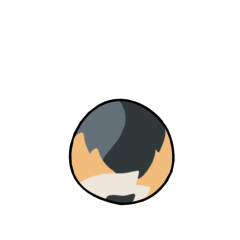
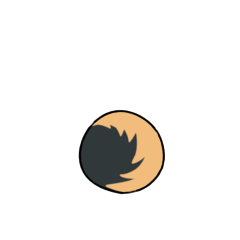
Sprite Cleanup + Spin Jump Transitions

Changed region(s): [[0.2625, 0.4083, 0.7292, 0.875]]

diff --git a/WhisperTheWolfVengeance/Scripts/WhisperStateManager.cs b/WhisperTheWolfVengeance/Scripts/WhisperStateManager.cs
@@ -10,10 +10,13 @@ public partial class WhisperStateManager : AnimationPlayer
 	private AnimatedSprite2D tailSprite;
 	private AnimationPlayer chargeLightAnimations;
 	private AudioStreamPlayer dropRingsSFX;
-	private System.Object[] details;
+	private Timer timer;
+	private object[] details;
 	private Vector2 chargeOffset;
 	private bool facingLeft;
 	private bool facingChanged;
+	private bool shotFiredOrCharged;
+	private bool extendSpinJump;
 	private int currentWhisp;
 	private Color cyan; 
 	private Color green;
@@ -35,9 +38,11 @@ public partial class WhisperStateManager : AnimationPlayer
 		tailSprite = GetNode<AnimatedSprite2D>("../MainSprite/TailSprite");
 		tailSprite.Play("default");
 		chargeLightAnimations = GetNode<AnimationPlayer>("ChargeLightAnimations");
+		timer = GetNode<Timer>("../Timer");
 
 		dropRingsSFX = GetNode<AudioStreamPlayer>("../SFXDropRings");
         dropRingsSFX.VolumeDb = _SettingsManager.sfxVolume;
+		
 
 		cyan = new Color(0.42f, 0.76f, 0.74f);      //#6dc3be
 		green = new Color(0.4f, 0.8f, 0.38f);       //#65cd62
@@ -50,12 +55,17 @@ public partial class WhisperStateManager : AnimationPlayer
 		chargeOffset = new Vector2(0, 0);
 		facingLeft = false;
 		facingChanged = false;
+		shotFiredOrCharged = false;
+		extendSpinJump = false;
 	}
 
 	public override void _Process(double delta) {
 		details = whisperController.GetWhisperDetails();
 		SetSpriteDirection(whisperController.GetIsFacingLeft());
 		state = mainSprite.Animation;
+		shotFiredOrCharged = ((Boolean)details[2]) == true || ((double)details[4] >= 0.1);
+		SetExtendSpinJump();
+
 		if(whisperController.hurtCooldown <= 0) {
 			SetAnimationState();
 			SetChargeLight();
@@ -66,7 +76,7 @@ public partial class WhisperStateManager : AnimationPlayer
 			}
 			this.Play("WhisperHurt");
 		}
-		CheckWhispsSwitched();                 
+		CheckWhispsSwitched();  
 	}
 
 ///////////////////////////////////////////////////////////////////////////////////////////////////
@@ -76,43 +86,49 @@ public partial class WhisperStateManager : AnimationPlayer
 		if(((Boolean)details[1]) == false) {
 			// If upwards motion //
 			if(((Vector2)details[0]).Y < 0) {
-				//if(!((mainSprite.Animation).Equals("Jump") || (mainSprite.Animation).Equals("JumpEnd"))) {
-				if(!mainSprite.Animation.Equals("SpinJump")) {
-					//this.Play("WhisperJump");
+				// If not currently jumping/falling, AND shot has not been shot/fired //
+				if(!state.Contains("Jump") && !state.Equals("Fall") && !shotFiredOrCharged) {
 					this.Play("WhisperSpinJump");
 				}
-			}
-			/*
-			else { // If downwards motion //
-				if(!mainSprite.Animation.Equals("Fall")) {
-					this.Play("WhisperFall");
+				else {
+					// If shot fired/charged switch to jump animation
+					if((!(state.Equals("Jump") || state.Equals("JumpEnd"))) && shotFiredOrCharged) {
+						this.Play("WhisperJump");
+					}
 				}
 			}
-			*/
+			else { // If downwards motion  AND  if bullet shot or charging //
+				if(shotFiredOrCharged) {
+					if(!state.Equals("Fall")) {
+						this.Play("WhisperFall");
+					}
+				}
+			}
+			
 		}
 		// If no longer falling, Transition from falling //
-		else if(mainSprite.Animation.Equals("Fall")) {
+		else if(state.Equals("Fall")) {
 			TransitionAnimation();
 		}
-		else { // If on ground //
+		else if(!extendSpinJump) { // If on ground AND not on spring //
 			// If moving on x axis // 
 			if(((Vector2)details[0]).X != 0) {
-				if(!mainSprite.Animation.Equals("Run") || facingChanged) {
+				if(!state.Equals("Run") || facingChanged) {
 					this.Play("WhisperRun");
 					facingChanged = false;
 				}
 			}
 			else { // If not moving on x axis //
-				// If bullet is not ready (shot)  OR  Bullet is buffered, AND not currently charging //
-				if((((Boolean)details[2]) == true || ((Boolean)details[3]) == true) && ((double)details[details.Length - 1] < 0.1)) {
-					if(!mainSprite.Animation.Equals("IdleShoot")) {
+				// If bullet shot  OR  Bullet is buffered, AND not currently charging //
+				if((((Boolean)details[2]) == true || ((Boolean)details[3]) == true) && ((double)details[4] < 0.1)) {
+					if(!state.Equals("IdleShoot")) {
 						this.Play("WhisperIdleShoot");
 					}
 				}
 				// Bullet Charging or Charged //
-				else if((double)details[details.Length - 1] >= 0.1) {
-					if(!(mainSprite.Animation.Equals("IdleCharging") || mainSprite.Animation.Equals("IdleCharged"))) {
-						if((double)details[details.Length - 1] < 0.6) {
+				else if((double)details[4] >= 0.1) {
+					if(!(state.Equals("IdleCharging") || state.Equals("IdleCharged"))) {
+						if((double)details[4] < 0.6) {
 							this.Play("WhisperIdleCharge");
 						}
 						else { // Maintain Charged Sprite2D //
@@ -121,14 +137,14 @@ public partial class WhisperStateManager : AnimationPlayer
 					}
 				}
 				else{ // Idle //
-					if(!mainSprite.Animation.Equals("default")) {
+					if(!state.Equals("default")) {
 						this.Play("WhisperIdle");
 					}
 				}
 			}
 		}
 
-		if(!mainSprite.Animation.Equals("SpinJump")) {
+		if(!state.Equals("SpinJump")) {
 			colorSprite.Visible = true;
 			tailSprite.Visible = false;
 		}
@@ -138,20 +154,20 @@ public partial class WhisperStateManager : AnimationPlayer
 
 	private void SetChargeLight() {
 		// If Bullet is Charging/Charged //
-		if((double)details[details.Length - 1] >= 0.1) {
+		if((double)details[4] >= 0.1) {
 			//if not fully charged
-			if((double)details[details.Length - 1] < 0.6) {
+			if((double)details[4] < 0.6) {
 				if(!chargeSprite.Animation.Equals("Charging")) {
 					chargeLightAnimations.Play("Charging");
 				}
 			}
 			// If running //
-			else if(mainSprite.Animation.Equals("Run") && !chargeSprite.Animation.Equals("ChargedRun")) {
+			else if(state.Equals("Run") && !chargeSprite.Animation.Equals("ChargedRun")) {
 				chargeSprite.Animation = "ChargedRun";
 				chargeSprite.Frame = mainSprite.Frame;
 			}
 			// If not running //
-			else if(!chargeSprite.Animation.Equals("Charged") && !mainSprite.Animation.Equals("Run")) {
+			else if(!state.Equals("Run") && !chargeSprite.Animation.Equals("Charged")) {
 				chargeLightAnimations.Play("Charged");
 			}
 		}
@@ -162,7 +178,7 @@ public partial class WhisperStateManager : AnimationPlayer
 			chargeLightAnimations.Play("NoCharge");
 		}
 		// Force running animation sync //
-		if((chargeSprite.Animation).Equals("ChargedRun")) {
+		if(chargeSprite.Animation.Equals("ChargedRun")) {
 			chargeSprite.Frame = mainSprite.Frame;
 		}
 		SetChargePosition();
@@ -203,7 +219,7 @@ public partial class WhisperStateManager : AnimationPlayer
 		else {
 			colorSprite.Modulate = cyan;
 		}
-		chargeSprite.Modulate = (colorSprite.Modulate)*1.5f;
+		chargeSprite.Modulate = colorSprite.Modulate * 1.5f;
 	}
 
 	private void SetChargePosition() {
@@ -225,21 +241,31 @@ public partial class WhisperStateManager : AnimationPlayer
 		chargeSprite.Position = chargeOffset;
 	}
 
+	private void SetExtendSpinJump() {
+		for(int i = 0; i < whisperController.GetSlideCollisionCount() ; i++) {
+				if((whisperController.GetSlideCollision(i).GetCollider() as Node).Name.Equals("Spring")) {
+					extendSpinJump = true;
+					timer.Start(0.1);
+				}
+		}
+	}
+
 	////// SIGNALS ///////////////////////////////////////////////////////
 
 	private void TransitionAnimation() {
-		if(!mainSprite.Animation.Equals("default") && !((string)(mainSprite.Animation)).Contains("Transition")) {
-			try{
-				if(!mainSprite.Animation.Equals("SpinJump")) {
-					mainSprite.Animation = mainSprite.Animation + "Transition";
-					colorSprite.Animation = colorSprite.Animation + "Transition";
-				}
+		if(!state.Equals("default") && !state.Contains("Transition")) {
+			if(state.Equals("Run") || state.Equals("IdleShoot") || state.Equals("Fall")) {
+				mainSprite.Animation = mainSprite.Animation + "Transition";
+				colorSprite.Animation = colorSprite.Animation + "Transition";
 			}
-			catch(Exception) {
+			else {
 				mainSprite.Animation = "default";
 				colorSprite.Animation = "default";
 			}
-
 		}
+	}
+
+	private void EndExtendSpinJump() {
+		extendSpinJump = false;
 	}
 }

diff --git a/WhisperTheWolfVengeance/Scripts/WhisperController.cs b/WhisperTheWolfVengeance/Scripts/WhisperController.cs
@@ -153,13 +153,13 @@ public partial class WhisperController : CharacterBody2D
 
 	private void CalculateExternalMotion(double delta) {
 			if(externalMotion.X > 0) {
-				externalMotion.X -= (float)(Math.Sqrt(delta * 20 * externalMotion.X));
+				externalMotion.X -= (float)Math.Sqrt(delta * 20 * externalMotion.X);
 				if(externalMotion.X < 100) {
 					externalMotion.X = 0;
 				}
 			}
 			else if(externalMotion.X < 0) {
-				externalMotion.X += (float)(Math.Sqrt(delta * 20 * -externalMotion.X));
+				externalMotion.X += (float)Math.Sqrt(delta * 20 * -externalMotion.X);
 				if(externalMotion.X > -100) {
 					externalMotion.X = 0;
 				}
@@ -236,8 +236,8 @@ public partial class WhisperController : CharacterBody2D
 		playerUI.rings = 0;
 	}
 
-	public System.Object[] GetWhisperDetails() {
-		System.Object[] obj = new System.Object[] {Velocity, IsOnFloor(), !bulletIsReady, bufferBullet, chargingTimer};
+	public object[] GetWhisperDetails() {
+		object[] obj = new object[] {Velocity, IsOnFloor(), !bulletIsReady, bufferBullet, chargingTimer};
 		return obj;
 	}
 

diff --git a/WhisperTheWolfVengeance/Scripts/TailRotation.cs b/WhisperTheWolfVengeance/Scripts/TailRotation.cs
@@ -28,10 +28,9 @@ public partial class TailRotation : AnimatedSprite2D
 			if(whisperController.Velocity.Y < 0) {
 				this.Rotation = (float)Math.PI + this.Rotation;
 			}
-			GD.Print(this.Rotation);
 
-			tailOffset.X = (float)(Math.Cos(this.Rotation) * -75);
-			tailOffset.Y = (float)((Math.Sin(this.Rotation) * -75) + 30);
+			tailOffset.X = (float)(Math.Cos(this.Rotation) * -60);
+			tailOffset.Y = (float)((Math.Sin(this.Rotation) * -60) + 30);
 			this.Position = tailOffset;
 		}
 	}
